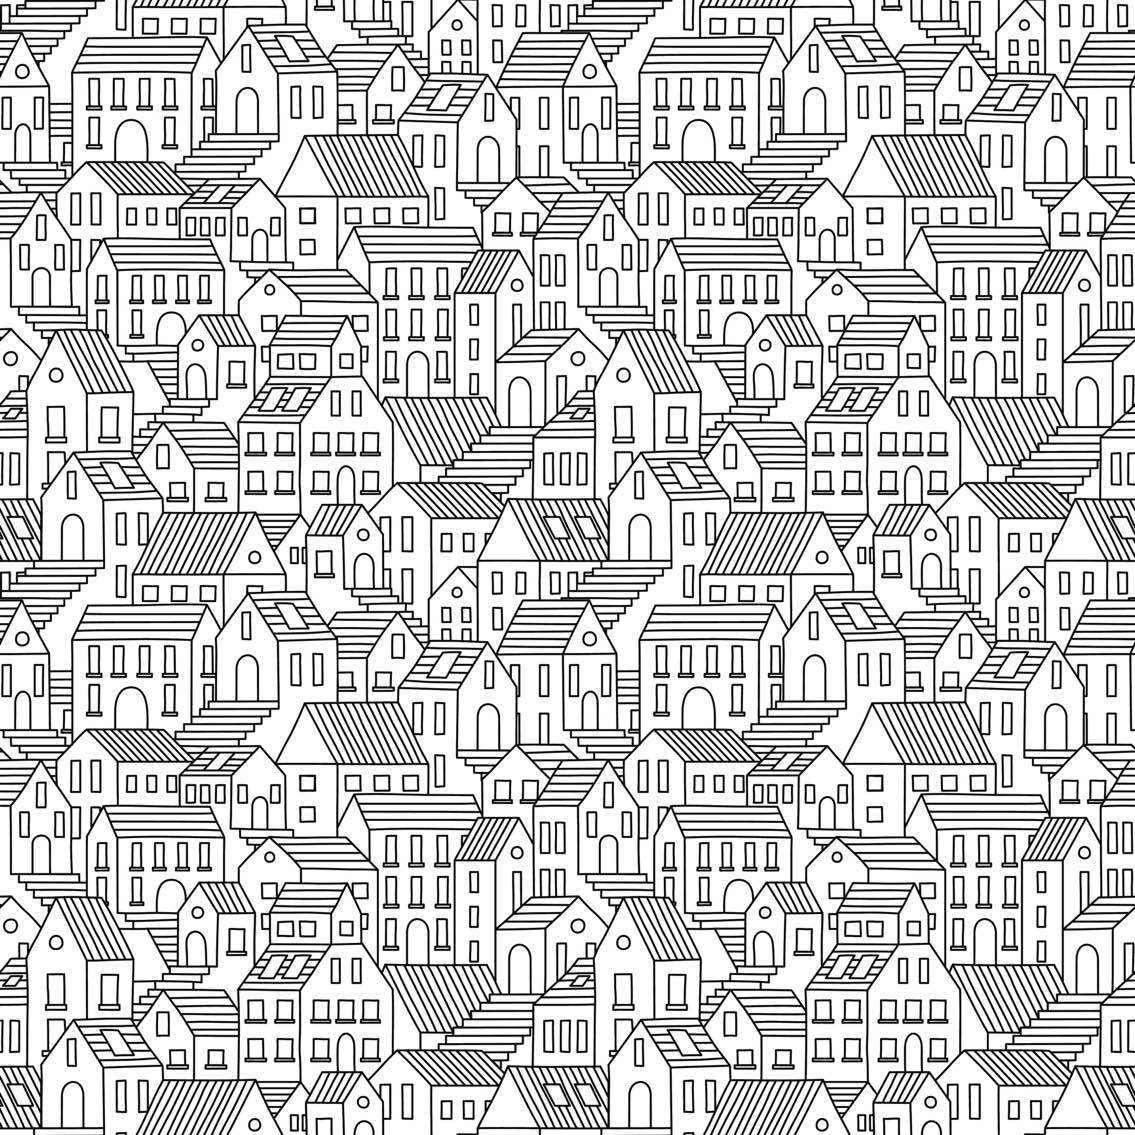
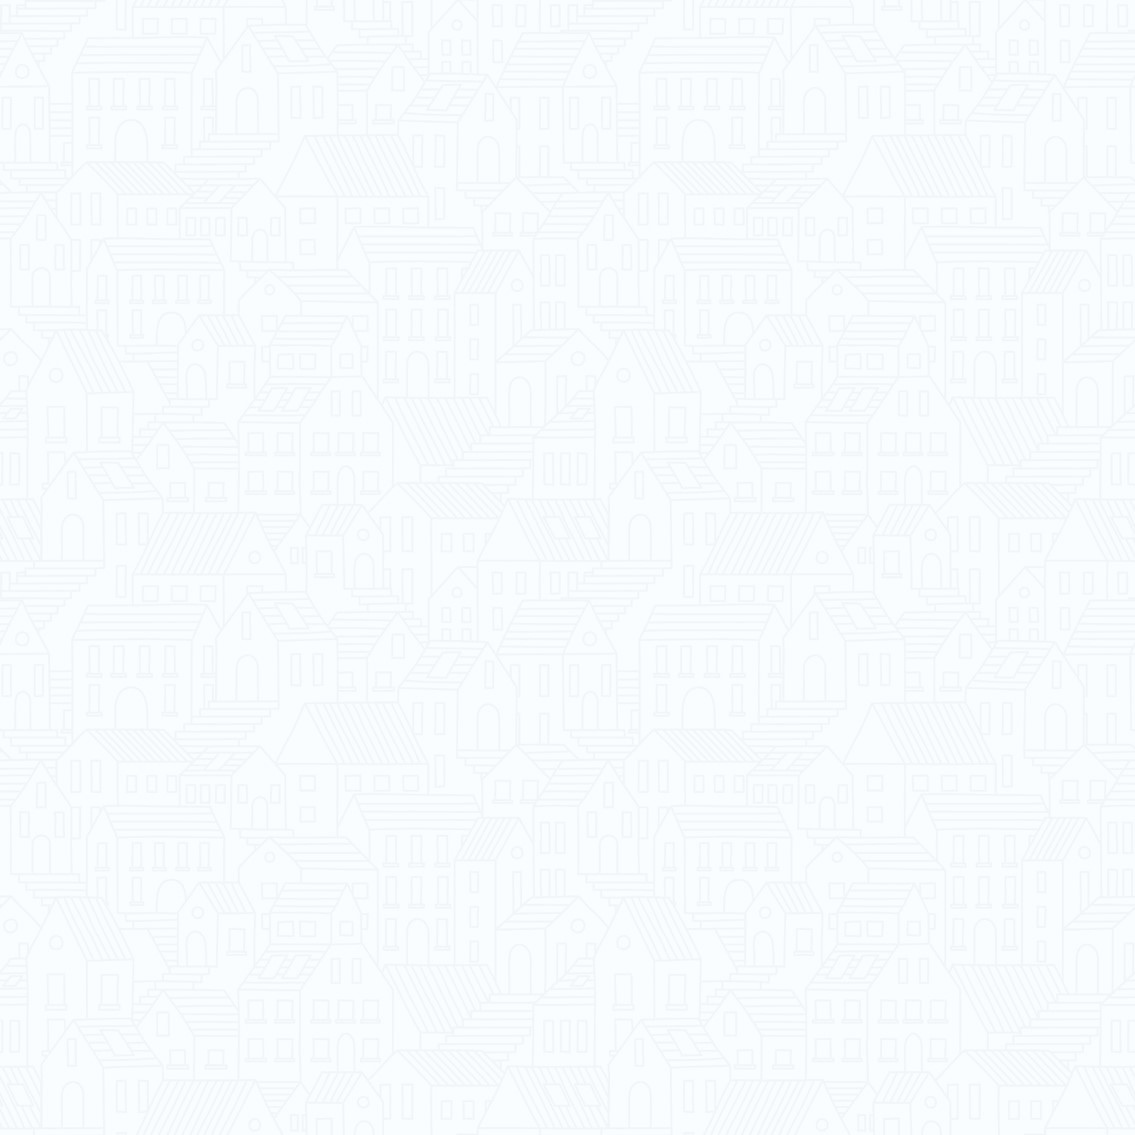
BNH-170 feat: Made background image lighter

diff --git a/web/wwwroot/css/site.css b/web/wwwroot/css/site.css
@@ -32,8 +32,6 @@ a, .nav-link {
 
 body {
     background-image: url("../images/backgroundHouses.jpg");
-    background-color: rgba(255, 255, 255, 0.97);
-    background-blend-mode: lighten;
 }
 
 .test {
